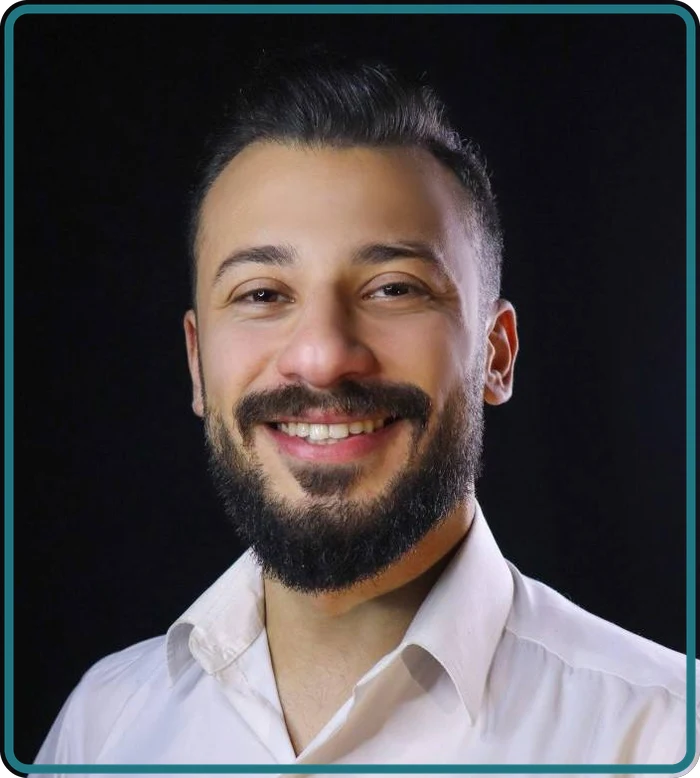
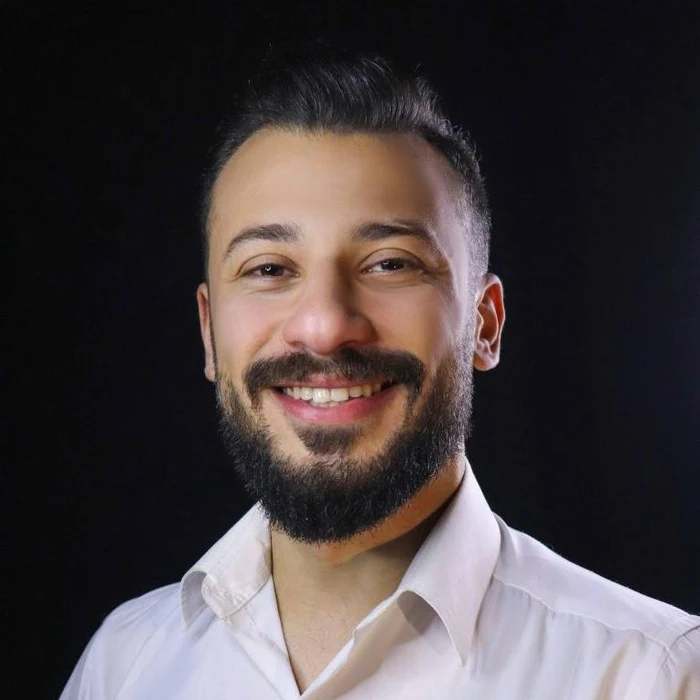
Remove the teal ring frame from leadership/advisory photos
Plain rectangular crops now; the site's own CSS (border-radius +
overflow:hidden on .person__media, border-radius:50% on .advisor img)
handles all the shaping, matching every other rounded card on the site.

Changed region(s): [[0.0, 0.0, 1.0, 1.0], [0.45, 0.15, 0.48, 0.18], [0.42, 0.12, 0.45, 0.15]]

diff --git a/site/about.html b/site/about.html
@@ -130,7 +130,7 @@
         <p>NEXGEN is committed to building companies that stand the test of time—creating sustainable impact for our partners, our markets, and future generations.</p>
       </div>
       <figure class="figure reveal" data-delay="1">
-        <img src="assets/img/team-abdullah.webp" alt="Abdullah Sultan AlMutairi, Chairman &amp; CEO of NEXGEN Holdings" loading="lazy" decoding="async" width="900" height="1094">
+        <img src="assets/img/team-abdullah.webp" alt="Abdullah Sultan AlMutairi, Chairman &amp; CEO of NEXGEN Holdings" loading="lazy" decoding="async" width="900" height="1125">
       </figure>
     </div>
   </section>
@@ -143,7 +143,7 @@
       </div>
       <div class="grid grid-3 mt-4">
         <article class="person reveal">
-          <div class="person__media"><img src="assets/img/team-omar.webp" alt="Omar Almutairi, Head Of Fintech" loading="lazy" decoding="async" width="900" height="1094"></div>
+          <div class="person__media"><img src="assets/img/team-omar.webp" alt="Omar Almutairi, Head Of Fintech" loading="lazy" decoding="async" width="900" height="1125"></div>
           <div class="person__body">
             <h3 class="person__name">Omar Almutairi</h3>
             <p class="person__role">Head Of Fintech</p>
@@ -151,7 +151,7 @@
           </div>
         </article>
         <article class="person reveal" data-delay="1">
-          <div class="person__media"><img src="assets/img/team-jernej.webp" alt="Jernej Hercog, Head Of Renewable Energy" loading="lazy" decoding="async" width="900" height="1094"></div>
+          <div class="person__media"><img src="assets/img/team-jernej.webp" alt="Jernej Hercog, Head Of Renewable Energy" loading="lazy" decoding="async" width="900" height="1125"></div>
           <div class="person__body">
             <h3 class="person__name">Jernej Hercog</h3>
             <p class="person__role">Head Of Renewable Energy</p>
@@ -159,7 +159,7 @@
           </div>
         </article>
         <article class="person reveal" data-delay="2">
-          <div class="person__media"><img src="assets/img/advisor-moatassem.webp" alt="Moatassem Abdelhaleem, Head of AI &amp; Digital Transformation" loading="lazy" decoding="async" width="700" height="778"></div>
+          <div class="person__media"><img src="assets/img/advisor-moatassem.webp" alt="Moatassem Abdelhaleem, Head of AI &amp; Digital Transformation" loading="lazy" decoding="async" width="700" height="700"></div>
           <div class="person__body">
             <h3 class="person__name">Moatassem Abdelhaleem</h3>
             <p class="person__role">Head of AI &amp; Digital Transformation</p>
@@ -175,14 +175,14 @@
            lead moved up into the leadership grid above. -->
       <div class="grid grid-2 mt-4">
         <a class="advisor reveal" href="https://www.linkedin.com/in/abdullahmansouralenezi" target="_blank" rel="noopener">
-          <img src="assets/img/advisor-alenzi.webp" alt="Abdullah Alenezi" loading="lazy" decoding="async" width="700" height="771">
+          <img src="assets/img/advisor-alenzi.webp" alt="Abdullah Alenezi" loading="lazy" decoding="async" width="700" height="700">
           <span>
             <span class="advisor__name">Abdullah Alenezi</span>
             <span class="advisor__role">Shadow Executive · C-Suite Advisory</span>
           </span>
         </a>
         <a class="advisor reveal" data-delay="1" href="https://www.linkedin.com/in/hanan-alsharah-67b9a01b9" target="_blank" rel="noopener">
-          <img src="assets/img/advisor-alsharah.webp" alt="Hanan Alsharah" loading="lazy" decoding="async" width="700" height="771">
+          <img src="assets/img/advisor-alsharah.webp" alt="Hanan Alsharah" loading="lazy" decoding="async" width="700" height="700">
           <span>
             <span class="advisor__name">Hanan Alsharah</span>
             <span class="advisor__role">Founder and CEO of Innotech</span>

diff --git a/build-images.js b/build-images.js
@@ -49,18 +49,22 @@ for (const slug of ['trust-flow', 'esaal', 'dari', 'saby']) {
 // vertical crop is taken from the top of the cover-fit image (0 = keep the
 // very top / trim only the bottom; higher = allow more headroom to be cut).
 const LEADERSHIP = [
-  { name: 'team-abdullah.webp',     src: 'leadership-new/founder.jpg',   w: 900, h: 1094, top_frac: 0.08 },
-  { name: 'team-omar.webp',         src: 'leadership-new/omar.jpg',      w: 900, h: 1094, top_frac: 0.25 },
-  { name: 'team-jernej.webp',       src: 'leadership-new/jernej.jpg',    w: 900, h: 1094, top_frac: 0.15 },
-  { name: 'advisor-alenzi.webp',    src: 'leadership-new/alenzi.jpg',    w: 700, h: 771,  top_frac: 0 },
-  { name: 'advisor-alsharah.webp',  src: 'leadership-new/hanan.jpg',     w: 700, h: 771,  top_frac: 0.05 },
-  { name: 'advisor-moatassem.webp', src: 'leadership-new/moatassem.jpg', w: 700, h: 778,  top_frac: 0.15 },
+  // Plain crops, no baked ring/corners: .person__media (border-radius +
+  // overflow:hidden) and .advisor img (border-radius:50%) do the shaping in
+  // CSS, matching every other rounded card on the site. Canvas dims mirror
+  // those CSS targets: 4:5 for the leadership tier, 1:1 for advisor circles.
+  { name: 'team-abdullah.webp',     src: 'leadership-new/founder.jpg',   w: 900, h: 1125, top_frac: 0.08 },
+  { name: 'team-omar.webp',         src: 'leadership-new/omar.jpg',      w: 900, h: 1125, top_frac: 0.22 },
+  { name: 'team-jernej.webp',       src: 'leadership-new/jernej.jpg',    w: 900, h: 1125, top_frac: 0.15 },
+  { name: 'advisor-alenzi.webp',    src: 'leadership-new/alenzi.jpg',    w: 700, h: 700,  top_frac: 0 },
+  { name: 'advisor-alsharah.webp',  src: 'leadership-new/hanan.jpg',     w: 700, h: 700,  top_frac: 0.05 },
+  { name: 'advisor-moatassem.webp', src: 'leadership-new/moatassem.jpg', w: 700, h: 700,  top_frac: 0.15 },
 ];
 
 function buildLeadershipPortraits() {
   const { execFileSync } = require('child_process');
   const jobs = LEADERSHIP.map(p => ({
-    src: S(p.src), dst: path.join(OUT, p.name), canvas_w: p.w, canvas_h: p.h, top_frac: p.top_frac,
+    src: S(p.src), dst: path.join(OUT, p.name), canvas_w: p.w, canvas_h: p.h, top_frac: p.top_frac, frame: false,
   }));
   execFileSync('python3', [path.join(__dirname, 'tools', 'frame-portrait.py'), JSON.stringify(jobs)], { stdio: 'inherit' });
 }

diff --git a/tools/frame-portrait.py b/tools/frame-portrait.py
@@ -9,7 +9,7 @@ BORDER = (33, 117, 130, 255)   # measured ring colour
 RADIUS = 28
 RING = 9
 
-def process(src, dst, canvas_w, canvas_h, top_frac=0.15, zoom=1.0):
+def process(src, dst, canvas_w, canvas_h, top_frac=0.15, zoom=1.0, frame=False):
     im = Image.open(src).convert('RGB')
     w, h = im.size
     scale = max(canvas_w / w, canvas_h / h) * zoom
@@ -19,6 +19,14 @@ def process(src, dst, canvas_w, canvas_h, top_frac=0.15, zoom=1.0):
     left = round(excess_x * 0.5)
     top = round(excess_y * top_frac)
     im = im.crop((left, top, left + canvas_w, top + canvas_h))
+
+    if not frame:
+        # Plain rectangular crop: the site's own CSS (border-radius +
+        # overflow:hidden on .person__media, border-radius:50% on .advisor
+        # img) does all the shaping, so no ring or rounding is baked in here.
+        im.convert('RGB').save(dst, 'WEBP', quality=88)
+        print('wrote', dst, im.size)
+        return
 
     # Rounded-rect alpha mask, supersampled for a clean edge.
     S = 4
